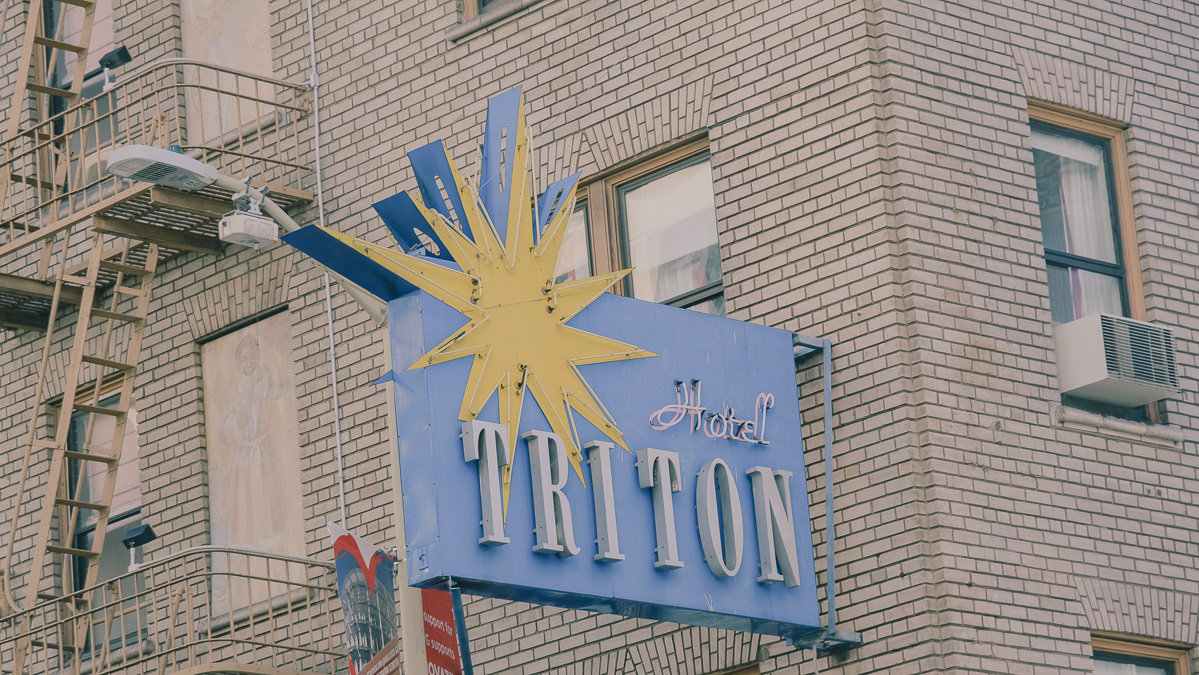
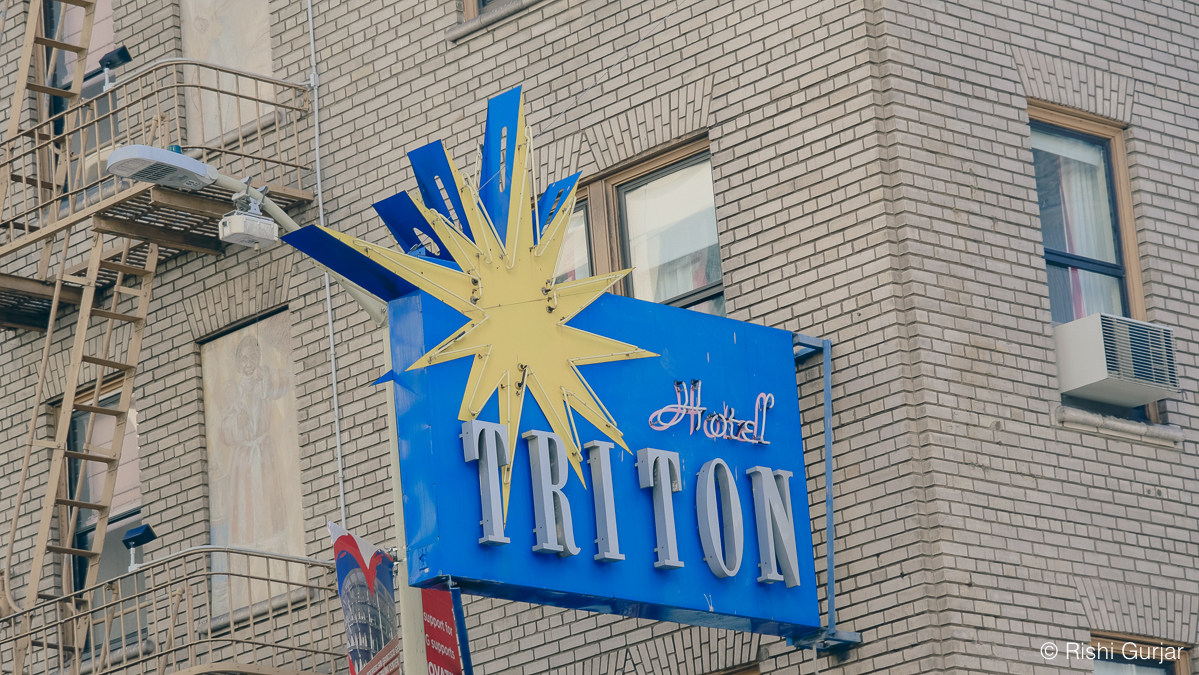
sf page

diff --git a/sf.html b/sf.html
@@ -1,0 +1,158 @@
+<!DOCTYPE html>
+<!--[if lt IE 7]>      <html class="no-js lt-ie9 lt-ie8 lt-ie7" xmlns:lr="http://adobe.com/lrg/0.0"> <![endif]-->
+<!--[if IE 7]>         <html class="no-js lt-ie9 lt-ie8" xmlns:lr="http://adobe.com/lrg/0.0"> <![endif]-->
+<!--[if IE 8]>         <html class="no-js lt-ie9" xmlns:lr="http://adobe.com/lrg/0.0"> <![endif]-->
+<!--[if gt IE 8]><!--> <html class="no-js" xmlns:lr="http://adobe.com/lrg/0.0"> <!--<![endif]-->
+    <head>
+        <meta charset="utf-8">
+        <meta http-equiv="X-UA-Compatible" content="IE=edge">
+        <title>Lightroom Gallery</title>
+        <meta name="description" content="">
+        <meta name="viewport" content="width=device-width, initial-scale=1">
+        <link rel="stylesheet" type="text/css" href="assets/css/normalize.css">
+        <link rel="stylesheet" type="text/css" href="assets/css/main.css">
+        <link rel="stylesheet" type="text/css" media="screen" title="Custom Settings" href="assets/css/custom.css" >
+        <script src="assets/js/libs/modernizr.custom.23122.js"></script>
+        <style>
+            @font-face {
+      font-family: Graphik;
+      src: url(fonts/Graphik-Regular.ttf);
+      }
+      p {
+        font-family: "Graphik";
+      font-size: 40px;
+      font-weight: 400;
+      color: red;
+      min-width: 200px;
+      text-align: center
+      }
+        </style>
+    </head>
+    <body class="has-header row-spacing-none" data-pagination-style="scroll" data-target-row-height="221">
+                        <header class="">
+            <div class="background"></div>
+            <div class="meta-left">
+                <p id="galleryTitle" class="title">Rishi Gurjar | San Francisco, California</p>
+                                <p id="galleryAuthor" class="author"></p>
+                                </p>
+            </div>
+            <div class="meta-right">
+
+            </div>
+            <ul class="gallery-meta">
+                <li id="buttonFullscreen" title="Fullscreen Mode">
+                    <div class="icon">
+                        <svg version="1.1" id="svgIconFullscreen" xmlns="http://www.w3.org/2000/svg" xmlns:xlink="http://www.w3.org/1999/xlink" x="0px" y="0px" viewBox="0 0 18 16" style="enable-background:new 0 0 18 16;" xml:space="preserve">
+                        <g>
+                            <path class="custom-colorable" d="M5.3871,9.95599C5.19136,9.76858,4.99176,9.85763,4.79376,10.0472l-2.86173,2.74138v-1.55466
+                                c0-0.25257-0.21387-0.45733-0.47767-0.45733H0.47767C0.21387,10.7766,0,10.98136,0,11.23393v3.37367v0.93511
+                                C0,15.79524,0.21387,16,0.47767,16h0.97668h3.5238c0.26377,0,0.47764-0.20476,0.47764-0.45729v-0.93511
+                                c0-0.25254-0.21387-0.45733-0.47764-0.45733H3.34554l2.86694-2.7451c0.198-0.18957,0.30914-0.44923,0.11342-0.63664L5.3871,9.95599
+                                z"/>
+                            <path class="custom-colorable" d="M17.52233,10.7766h-0.97672c-0.26377,0-0.47764,0.20476-0.47764,0.45733v1.55466l-2.86172-2.74138
+                                c-0.198-0.18957-0.39764-0.27862-0.59335-0.09121l-0.93879,0.81254c-0.19575,0.18741-0.08458,0.44707,0.11342,0.63664
+                                l2.8669,2.7451h-1.63258c-0.26377,0-0.47764,0.20479-0.47764,0.45733v0.93511c0,0.25254,0.21387,0.45729,0.47764,0.45729h3.52376
+                                h0.97672C17.7861,16,18,15.79524,18,15.54271v-0.93511v-3.37367C18,10.98136,17.7861,10.7766,17.52233,10.7766z"/>
+                            <path class="custom-colorable" d="M3.34554,1.84973h1.63262c0.26377,0,0.47764-0.20479,0.47764-0.45733V0.45733C5.45579,0.20476,5.24193,0,4.97815,0h-3.5238
+                                H0.47767C0.21387,0,0,0.20476,0,0.45733v0.93508v3.3737C0,5.01864,0.21387,5.2234,0.47767,5.2234h0.97668
+                                c0.26381,0,0.47767-0.20476,0.47767-0.45729V3.21142L4.79376,5.9528c0.198,0.18957,0.3976,0.27862,0.59335,0.09121l0.93879-0.81254
+                                C6.52161,5.04409,6.41048,4.7844,6.21247,4.59483L3.34554,1.84973z"/>
+                            <path class="custom-colorable" d="M17.52233,0h-0.97672h-3.52376c-0.26377,0-0.47764,0.20476-0.47764,0.45733v0.93508
+                                c0,0.25254,0.21387,0.45733,0.47764,0.45733h1.63258l-2.8669,2.7451c-0.19801,0.18957-0.30917,0.44926-0.11342,0.63663
+                                l0.93879,0.81254c0.19571,0.18741,0.39535,0.09836,0.59335-0.09121l2.86172-2.74138V4.7661
+                                c0,0.25254,0.21387,0.45729,0.47764,0.45729h0.97672C17.7861,5.2234,18,5.01864,18,4.7661v-3.3737V0.45733
+                                C18,0.20476,17.7861,0,17.52233,0z"/>
+                        </g>
+                        </svg>
+                    </div>
+                </li>
+            </ul>
+        </header>
+                <div id="thumbnailContainer">
+            <div class="thumbnails"></div>
+        </div>
+        <div id="loupeContainer" class="show-corners">
+            <div class="background"></div>
+            <div class="image-container"></div>    
+            <div class="side-navigation">
+                <div class="hotspot" id="hotspotPrevLoupe">
+                    <div class="button" id="buttonPrevSideLoupe">
+                        <svg version="1.1" baseProfile="basic" id="svgIconPrevSideLoupe" xmlns="http://www.w3.org/2000/svg" xmlns:xlink="http://www.w3.org/1999/xlink" x="0px" y="0px" width="50px" height="50px" viewBox="0 0 50 50" xml:space="preserve"><path class="icon custom-colorable" fill="#231F20" d="M0,0l0,50h50V0L0,0z M18.491,25.05l9.707-9.264c0.418-0.399,1.092-0.403,1.506-0.008l1.498,1.43c0.413,0.395,0.41,1.039-0.009,1.438l-6.765,6.456l6.613,6.31c0.41,0.392,0.414,1.024,0.008,1.412l-1.471,1.404c-0.406,0.387-1.068,0.384-1.479-0.008l-6.612-6.311L18.491,25.05z"/></svg>
+                    </div>
+                </div>
+                <div class="hotspot" id="hotspotNextLoupe">
+                    <div class="button" id="buttonNextSideLoupe">
+                        <svg version="1.1" baseProfile="basic" id="svgIconNextSideLoupe" xmlns="http://www.w3.org/2000/svg" xmlns:xlink="http://www.w3.org/1999/xlink" x="0px" y="0px" width="50px" height="50px" viewBox="0 0 50 50" xml:space="preserve">
+                            <path class="icon custom-colorable" fill="#231F20" d="M0,0v50h50V0H0z M28.513,27.909l-6.612,6.311c-0.411,0.392-1.073,0.395-1.479,0.008l-1.471-1.404 c-0.406-0.388-0.402-1.02,0.008-1.412l6.613-6.31l-6.765-6.456c-0.419-0.399-0.422-1.043-0.009-1.438l1.498-1.43 c0.414-0.395,1.088-0.391,1.506,0.008l9.707,9.264L28.513,27.909z"/>
+                        </svg>
+                    </div>
+                </div>
+            </div>
+            <div class="lateral-nav-container">
+                <ul class="lateral-nav">
+                    <li id="buttonPrev">
+                        <svg version="1.1" id="svgIconPrevLoupe" xmlns="http://www.w3.org/2000/svg" xmlns:xlink="http://www.w3.org/1999/xlink" x="0px" y="0px" viewBox="0 0 45 45" style="enable-background:new 0 0 45 45;" xml:space="preserve">
+                            <style type="text/css">
+                                .st0{fill-rule:evenodd;clip-rule:evenodd;fill:#231F20;}
+                            </style>
+                            <path class="icon custom-colorable" d="M25.20105,14.76864l-8.2004,7.773l2.5314,2.3992l5.5858,5.2952c0.3469,0.3289,0.9064,0.3318,1.2497,0.0065
+                                l1.2431-1.1783c0.3429-0.3252,0.3398-0.8555-0.0071-1.1846l-5.5864-5.2948l5.7149-5.4171c0.3535-0.3349,0.3568-0.875,0.0074-1.2063
+                                l-1.2657-1.1995C26.12435,14.43064,25.55435,14.43354,25.20105,14.76864z"/>
+                        </svg>
+                    </li>
+                    <li class="count"><span id="countCurrent"></span> of <span id="countTotal"></span></li>
+                    <li id="buttonNext">
+                        <svg version="1.1" id="svgIconNextLoupe" xmlns="http://www.w3.org/2000/svg" xmlns:xlink="http://www.w3.org/1999/xlink" x="0px" y="0px" viewBox="0 0 45 45" style="enable-background:new 0 0 45 45;" xml:space="preserve">
+                            <style type="text/css">
+                                .st0{fill-rule:evenodd;clip-rule:evenodd;fill:#231F20;}
+                            </style>
+                            <path class="icon custom-colorable" d="M19.79895,14.76864l8.2004,7.773l-2.5314,2.3992l-5.5858,5.2952c-0.3469,0.3289-0.9064,0.3318-1.2497,0.0065
+                                l-1.2431-1.1783c-0.3429-0.3252-0.3398-0.8555,0.0071-1.1846l5.5864-5.2948l-5.7149-5.4171
+                                c-0.3535-0.3349-0.3568-0.875-0.0074-1.2063l1.2657-1.1995C18.87565,14.43064,19.44565,14.43354,19.79895,14.76864z"/>
+                        </svg>
+                    </li>
+                </ul>
+            </div>
+            <div class="info-container">
+                <div id="loupeMeta"></div>
+            </div>
+            <div id="loupeCloseButton">
+                <svg version="1.1" id="svgIconLoupeClose" xmlns="http://www.w3.org/2000/svg" xmlns:xlink="http://www.w3.org/1999/xlink" x="0px" y="0px"
+                     viewBox="0 0 45 45" style="enable-background:new 0 0 45 45;" xml:space="preserve">
+                    <path class="shape-x custom-colorable" d="M14.77881,17.30074l5.212,5.2222l-5.0831,5.0924c-0.3476,0.3484-0.5746,0.7624-0.2308,1.1067l1.5682,1.4763
+                        c0.3436,0.3443,0.8045,0.2596,1.1521-0.0886l5.0825-5.093l5.2119,5.222c0.3536,0.3547,0.9244,0.3578,1.2741,0.0073l1.2677-1.27
+                        c0.3497-0.3507,0.3465-0.9224-0.0071-1.2768l-5.2119-5.2221l5.0828-5.0925c0.3475-0.3485,0.5429-0.8259,0.1994-1.1702
+                        l-1.6474-1.4921c-0.3438-0.3443-0.6936-0.1803-1.0411,0.1679l-5.0828,5.0929l-5.212-5.222
+                        c-0.3537-0.3546-0.9241-0.3577-1.2742-0.007l-1.2672,1.2698C14.42171,16.37464,14.42491,16.94624,14.77881,17.30074z"/>
+                </svg>
+            </div>
+        </div>
+        <script type="text/javascript">
+            var LR = LR || {};
+            LR.images = [                                                                                        {"id": "6244", "largeWidth": "1200", "largeHeight": "675", "exportFilename": "DSCF0542", "title": "", "caption" : ""},
+                         {"id": "6251", "largeWidth": "1200", "largeHeight": "675", "exportFilename": "DSCF0549", "title": "", "caption" : ""},
+                         {"id": "6252", "largeWidth": "1200", "largeHeight": "675", "exportFilename": "DSCF0551", "title": "", "caption" : ""},
+                         {"id": "6257", "largeWidth": "1200", "largeHeight": "675", "exportFilename": "DSCF0557", "title": "", "caption" : ""},
+                         {"id": "6258", "largeWidth": "1200", "largeHeight": "675", "exportFilename": "DSCF0558", "title": "", "caption" : ""},
+                         {"id": "6259", "largeWidth": "1200", "largeHeight": "675", "exportFilename": "DSCF0559", "title": "", "caption" : ""},
+                         {"id": "6260", "largeWidth": "1200", "largeHeight": "675", "exportFilename": "DSCF0560", "title": "", "caption" : ""},
+                         {"id": "6261", "largeWidth": "1200", "largeHeight": "737", "exportFilename": "DSCF0561", "title": "", "caption" : ""},
+                         {"id": "6263", "largeWidth": "1200", "largeHeight": "675", "exportFilename": "DSCF0563", "title": "", "caption" : ""},
+                         {"id": "6264", "largeWidth": "1200", "largeHeight": "675", "exportFilename": "DSCF0564", "title": "", "caption" : ""},
+                         {"id": "6265", "largeWidth": "1200", "largeHeight": "675", "exportFilename": "DSCF0565", "title": "", "caption" : ""},
+                         {"id": "6266", "largeWidth": "1200", "largeHeight": "714", "exportFilename": "DSCF0566", "title": "", "caption" : ""},
+                         {"id": "6269", "largeWidth": "1200", "largeHeight": "675", "exportFilename": "DSCF0569", "title": "", "caption" : ""},
+                         {"id": "6273", "largeWidth": "1200", "largeHeight": "675", "exportFilename": "DSCF0573", "title": "", "caption" : ""},
+                         {"id": "6284", "largeWidth": "1200", "largeHeight": "675", "exportFilename": "DSCF0584", "title": "", "caption" : ""},
+                         {"id": "6289", "largeWidth": "1200", "largeHeight": "675", "exportFilename": "DSCF0589", "title": "", "caption" : ""},
+                         {"id": "6291", "largeWidth": "1200", "largeHeight": "675", "exportFilename": "DSCF0591", "title": "", "caption" : ""},
+                         {"id": "6292", "largeWidth": "1200", "largeHeight": "675", "exportFilename": "DSCF0592", "title": "", "caption" : ""},
+                         {"id": "6328", "largeWidth": "1200", "largeHeight": "675", "exportFilename": "DSCF0628", "title": "", "caption" : ""},
+                         {"id": "6331", "largeWidth": "1200", "largeHeight": "675", "exportFilename": "DSCF0632", "title": "", "caption" : ""},
+                                    ]        </script>
+        <script src="//ajax.googleapis.com/ajax/libs/jquery/1.10.2/jquery.min.js"></script>
+        <script>window.jQuery || document.write('<script src="assets/js/libs/jquery-1.10.2.min.js"><\/script>')</script>
+        <script src="assets/js/libs/jquery.velocity.min.js"></script>
+        <script src="assets/js/main.js"></script>
+    </body>
+</html>

diff --git a/assets/css/custom.css b/assets/css/custom.css
@@ -1,19 +1,19 @@
 html {
-  background-color: #ffffff !important;
+  background-color: #FFFFFF !important;
   color: inherit;
 }
 
 .thumb-img {
-  border-color: #ffffff !important;
+  border-color: #FFFFFF !important;
 }
 
 #loupeContainer div.background {
-  background-color: #ffffff !important;
+  background-color: #FFFFFF !important;
   color: inherit;
 }
 
 header div.background {
-  background-color: #ffffff !important;
+  background-color: #FFFFFF !important;
   color: inherit;
 }
 
@@ -22,6 +22,6 @@ header div.background {
 }
 
 body {
-  background-color: #ffffff !important;
-  color: #828282 !important;
+  background-color: #FFFFFF !important;
+  color: #000000 !important;
 }

diff --git a/photodirectory.html b/photodirectory.html
@@ -30,7 +30,7 @@
 </style>
 <body>
     <h1>Some photos from</h1>
-    <h1><a href="sf1.html">San Francisco</a></h1>
+    <h1><a href="sf.html">San Francisco</a></h1>
     <h1>London</h1>
     <h1>Madrid</h1>
     <h1>Barcelona</h1>
@@ -43,5 +43,6 @@
     <h1><a href="uk.html">Lauterbrunnen</a></h1>
  -->
 <p><i>Photos are still being added</i></p>
+<p>Taken on X-T4 - XF16-80mmF4 R OIS WR</p>
 </body>
 </html>
